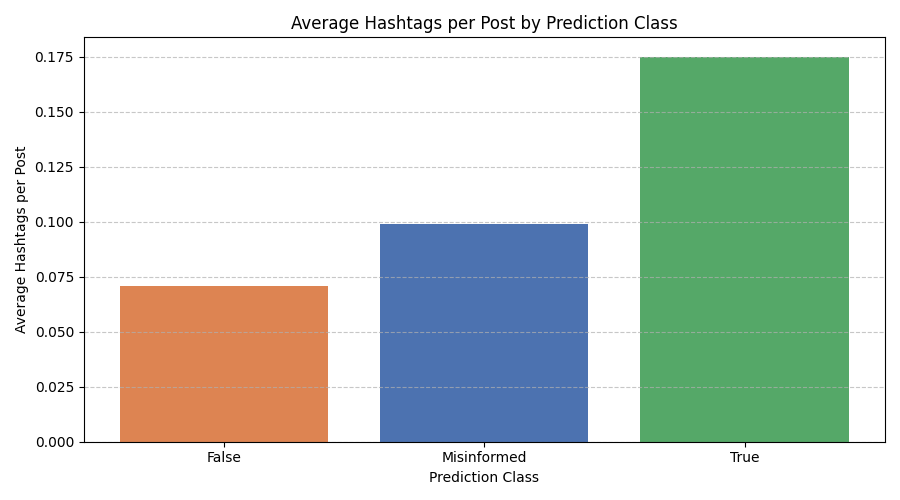
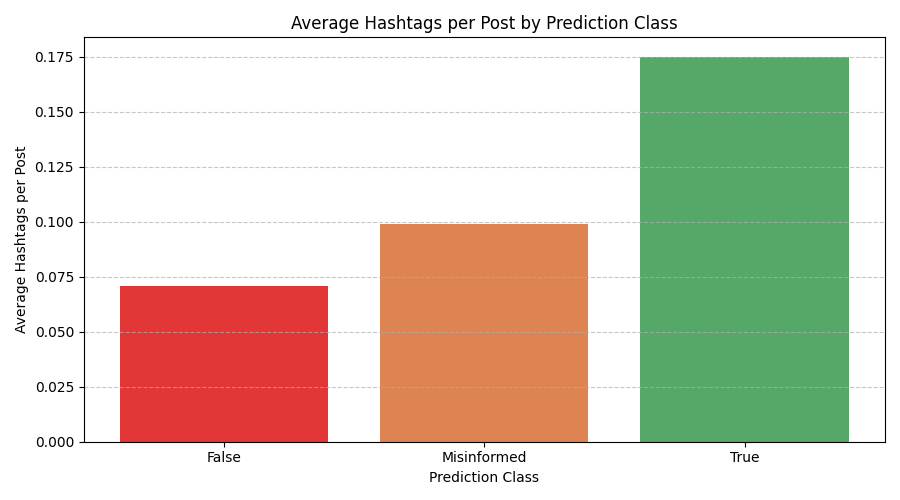
changes appended

Changed region(s): [[0.4044, 0.45, 0.6533, 0.9], [0.1244, 0.57, 0.3733, 0.9]]

diff --git a/analyze_twitter_predictions.py b/analyze_twitter_predictions.py
@@ -142,13 +142,13 @@ def analyze_predictions(input_file, text_column, prediction_column, top_keywords
         'Average Capitalization Ratio'
     ]
 
-    print("1. Average Text Metrics by Prediction Class")
+    print("Average Text Metrics by Prediction Class")
    
     print(avg_metrics_df.to_markdown(index=False, floatfmt=(".0f", ".0f", ".2f")))
     
     plt.figure(figsize=(9, 5)) 
     plt.bar(avg_metrics_df['Prediction Class'], avg_metrics_df['Average Text Length (Chars)'], 
-             color=['#4C72B0', '#DD8452', '#55A868'][:len(all_labels)])
+             color=["#E33636", '#DD8452', '#55A868'][:len(all_labels)])
     plt.title('Average Text Length by Prediction Class') 
     plt.xlabel('Prediction Class')
     plt.xticks(ticks=all_labels, labels="False Misinformed True".split()[:len(all_labels)])
@@ -159,7 +159,7 @@ def analyze_predictions(input_file, text_column, prediction_column, top_keywords
     
     plt.figure(figsize=(9, 5))
     plt.bar(avg_metrics_df['Prediction Class'], avg_metrics_df['Average Readability (Grade Level)'], 
-             color=['#55A868', '#DD8452', '#4C72B0'][:len(all_labels)])
+             color=["#E33636", '#DD8452', '#55A868'][:len(all_labels)])
     plt.title('Average Readability (Flesch-Kincaid Grade Level)')
     plt.xlabel('Prediction Class')
     plt.xticks(ticks=all_labels, labels="False Misinformed True".split()[:len(all_labels)])
@@ -170,7 +170,7 @@ def analyze_predictions(input_file, text_column, prediction_column, top_keywords
 
     plt.figure(figsize=(9, 5))
     plt.bar(avg_metrics_df['Prediction Class'], avg_metrics_df['Average Hashtags per Post'], 
-             color=['#DD8452', '#4C72B0', '#55A868'][:len(all_labels)])
+             color=["#E33636", '#DD8452', '#55A868'][:len(all_labels)])
     plt.title('Average Hashtags per Post by Prediction Class')
     plt.xlabel('Prediction Class')
     plt.xticks(ticks=all_labels, labels="False Misinformed True".split()[:len(all_labels)])
@@ -181,7 +181,7 @@ def analyze_predictions(input_file, text_column, prediction_column, top_keywords
 
     plt.figure(figsize=(9, 5))
     plt.bar(avg_metrics_df['Prediction Class'], avg_metrics_df['Average Mentions per Post'], 
-             color=['#4C72B0', '#55A868', '#DD8452'][:len(all_labels)])
+             color=["#E33636", '#DD8452', '#55A868'][:len(all_labels)])
     plt.title('Average Mentions per Post by Prediction Class')
     plt.xlabel('Prediction Class')
     plt.xticks(ticks=all_labels, labels="False Misinformed True".split()[:len(all_labels)])
@@ -192,7 +192,7 @@ def analyze_predictions(input_file, text_column, prediction_column, top_keywords
 
     plt.figure(figsize=(9, 5))
     plt.bar(avg_metrics_df['Prediction Class'], avg_metrics_df['Average URLs per Post'],
-                color=['#55A868', '#4C72B0', '#DD8452'][:len(all_labels)])
+                color=["#E33636", '#DD8452', '#55A868'][:len(all_labels)])
     plt.title('Average URLs per Post by Prediction Class')
     plt.xlabel('Prediction Class')
     plt.xticks(ticks=all_labels, labels="False Misinformed True".split()[:len(all_labels)])
@@ -203,7 +203,7 @@ def analyze_predictions(input_file, text_column, prediction_column, top_keywords
 
     plt.figure(figsize=(9, 5))
     plt.bar(avg_metrics_df['Prediction Class'], avg_metrics_df['Average Capitalization Ratio'],
-                color=['#DD8452', '#55A868', '#4C72B0'][:len(all_labels)])
+                color=["#E33636", '#DD8452', '#55A868'][:len(all_labels)])
     plt.title('Average Capitalization Ratio by Prediction Class')
     plt.xlabel('Prediction Class')
     plt.xticks(ticks=all_labels, labels="False Misinformed True".split()[:len(all_labels)])
